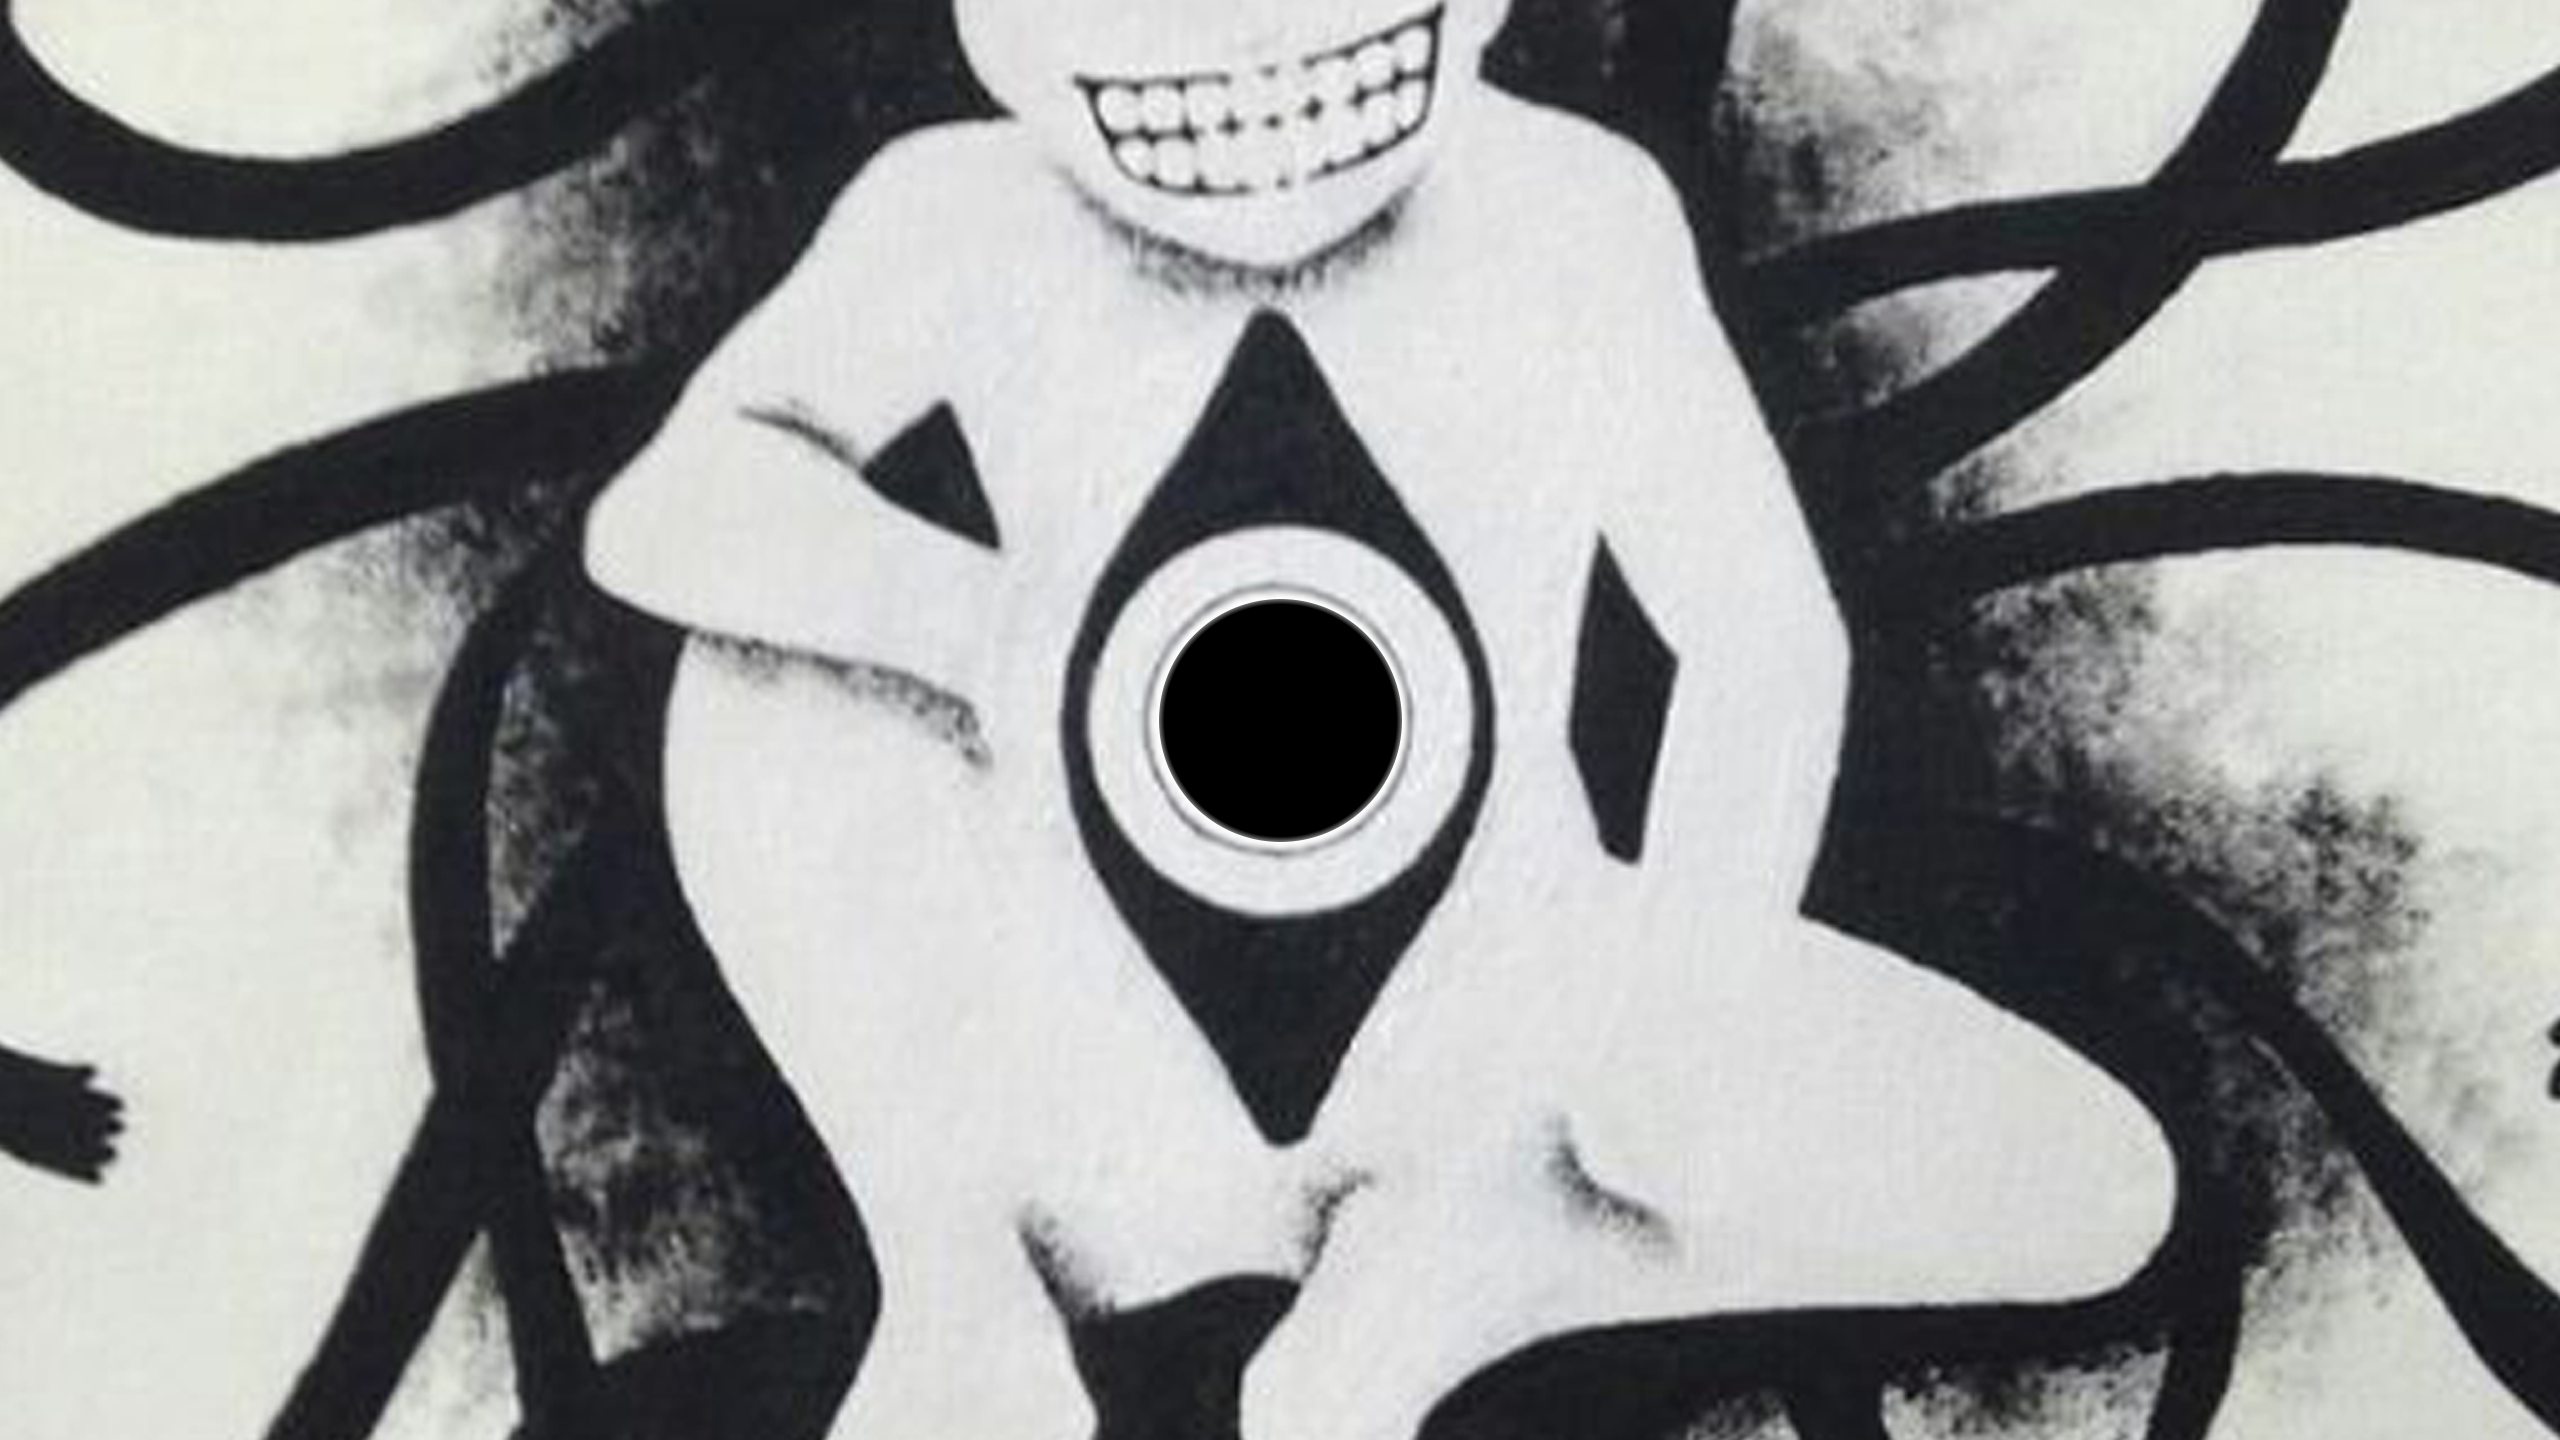
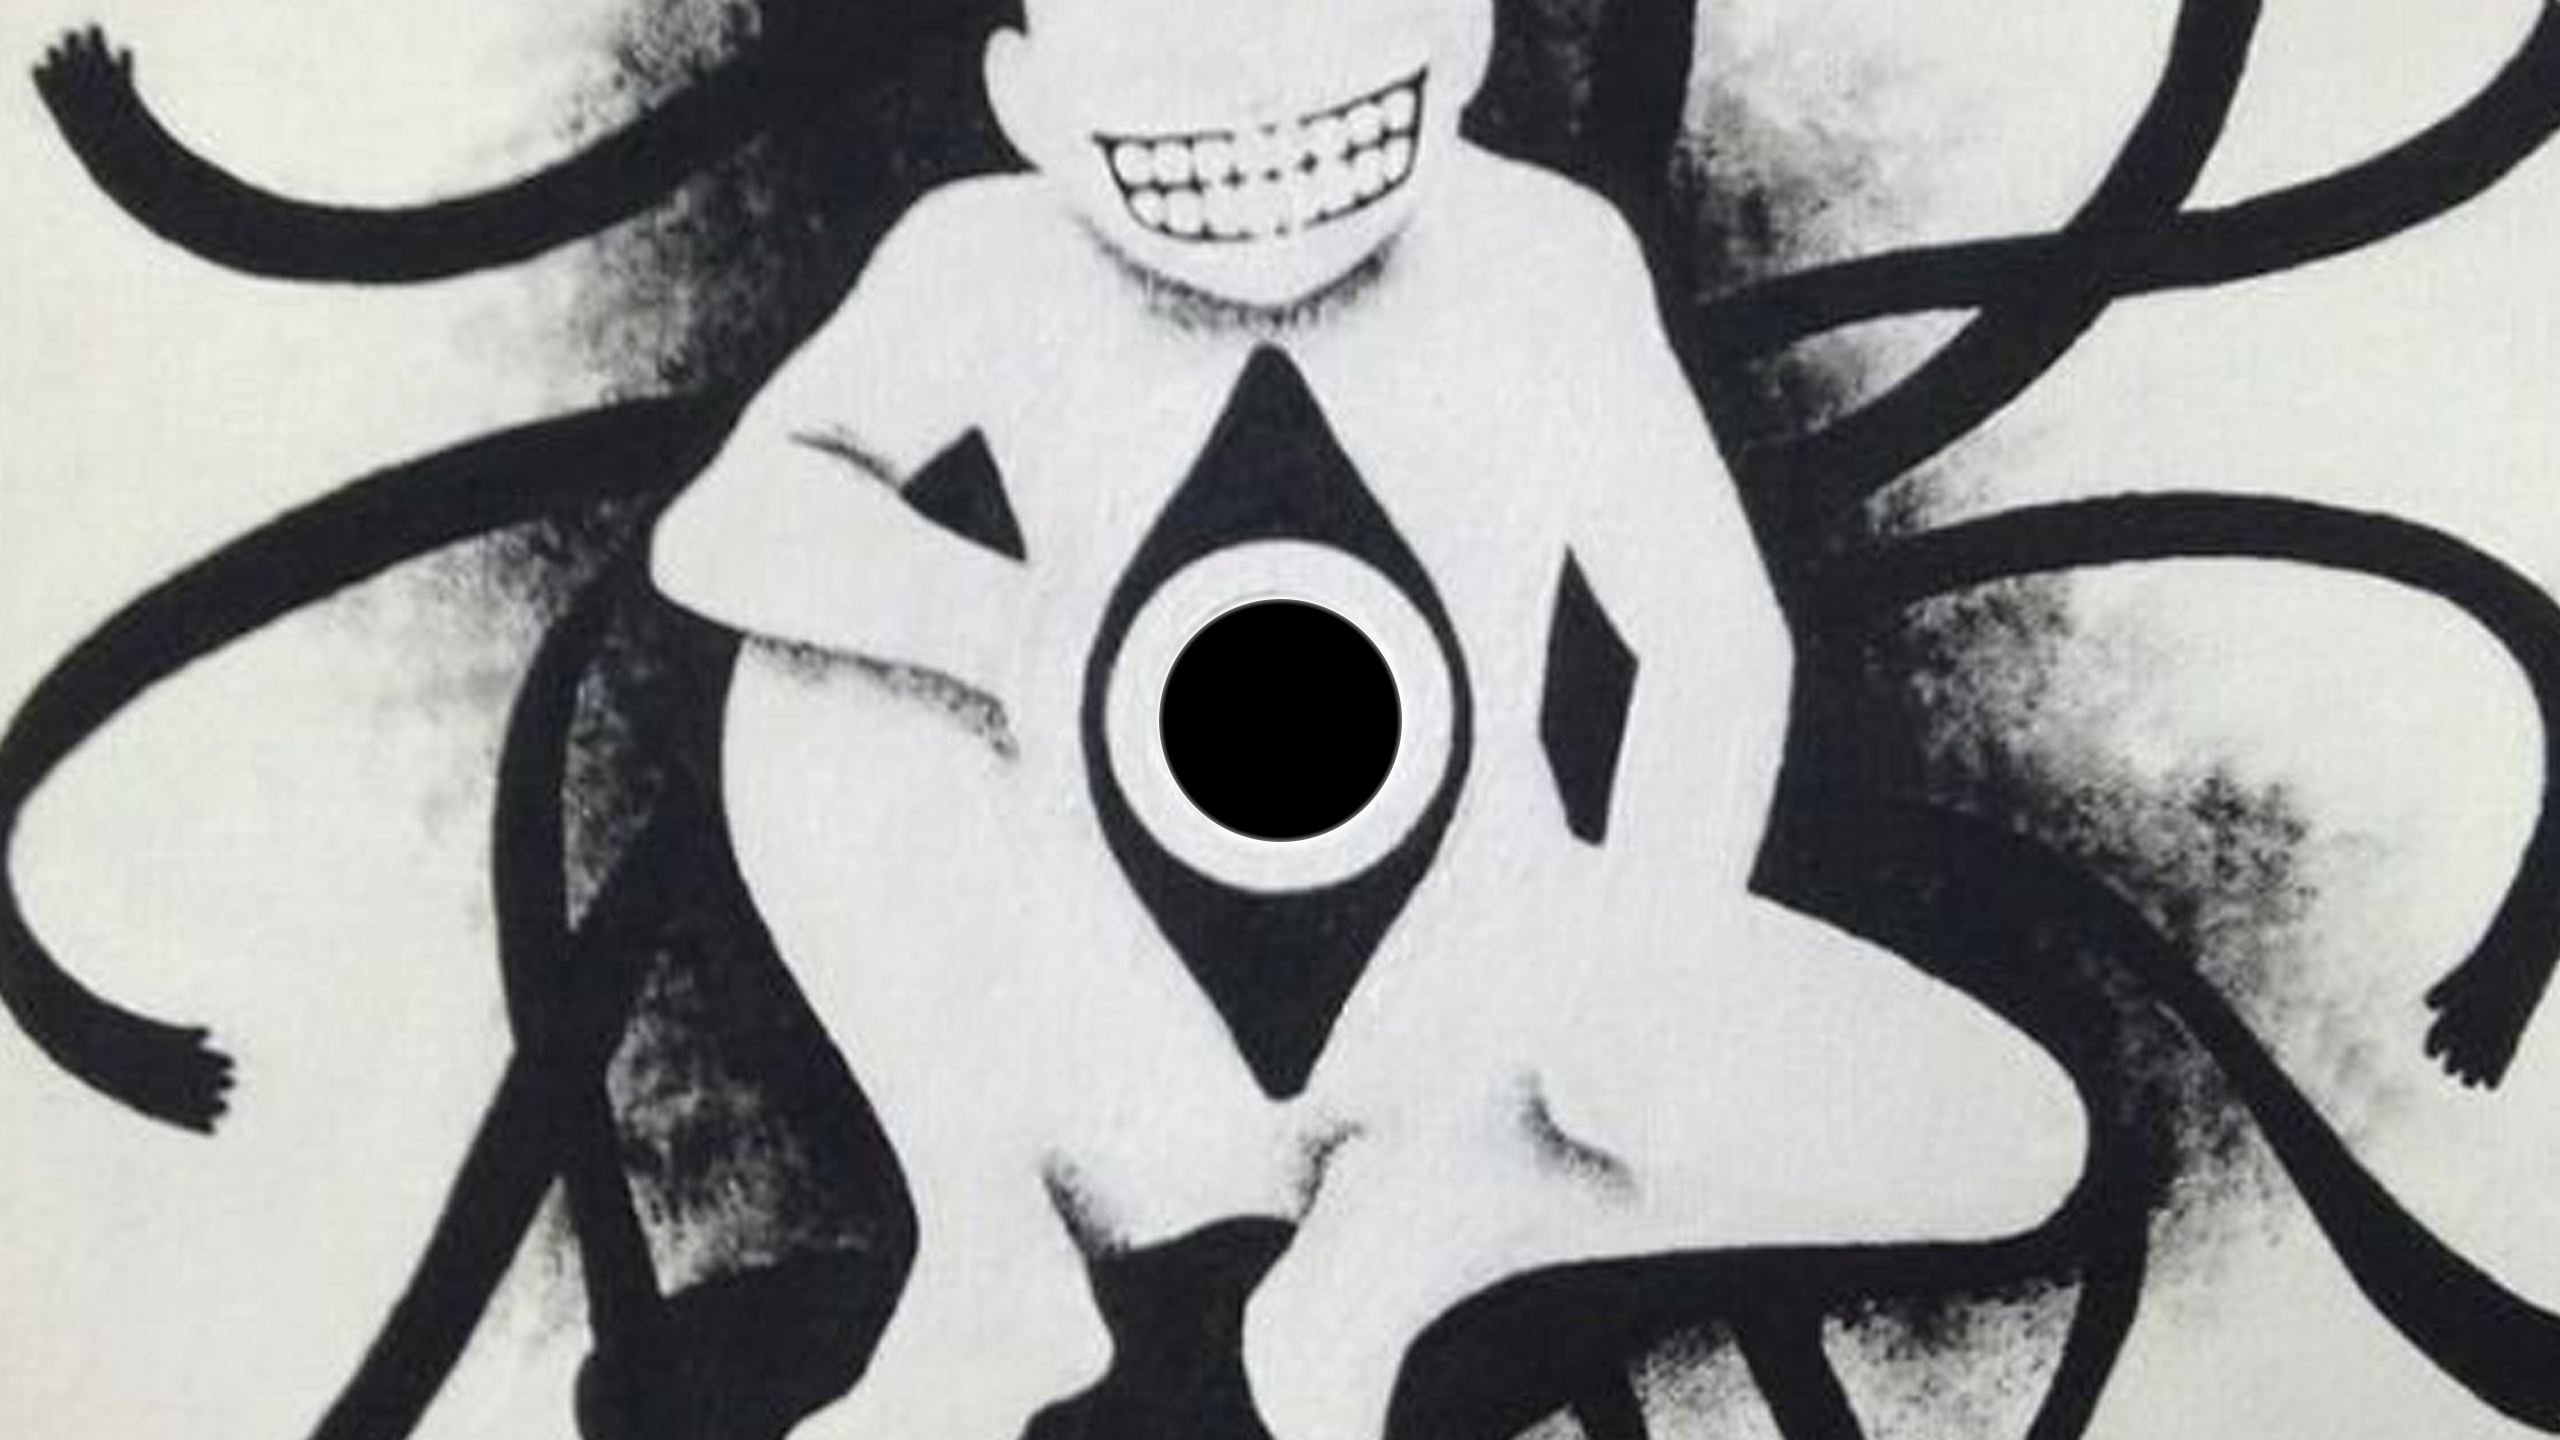
Add files via upload

diff --git a/textes/blackhole/index.html b/textes/blackhole/index.html
@@ -3,7 +3,7 @@
 
 
     <link rel="shortcut icon" href="https://64.media.tumblr.com/edce45fa1bf98132f17f243ac9f7733e/0168a80ceb7d68b5-23/s128x128u_c1/cbfe00c8f9ed5f409ef92ee34517e98bf289c6df.pnj">
-    <title>The Spot - comme une araignée au plafond</title>
+    <title>Holœgramme</title>
 </head>
 <style>
     body{
@@ -11,9 +11,6 @@
         margin: auto;
         padding:auto;
         text-align: center;
-        background-image: url(1.jpg);
-        background-position: center;
-        background-repeat: no-repeat;
         margin:0;
         padding:0;
     }
@@ -29,12 +26,15 @@
         margin:0;
         padding:0;
     }
+    img{
+        
+        margin:0;
+        padding:0;
+    }
 </style>
 <body>
 
     <iframe width="100%" height="166" scrolling="no" frameborder="no" allow="autoplay" src="https://w.soundcloud.com/player/?url=https%3A//api.soundcloud.com/tracks/217033162&color=%23000000&auto_play=true&hide_related=false&show_comments=true&show_user=true&show_reposts=false&show_teaser=true"></iframe><div style="font-size: 10px; color: #cccccc;line-break: anywhere;word-break: normal;overflow: hidden;white-space: nowrap;text-overflow: ellipsis; font-family: Interstate,Lucida Grande,Lucida Sans Unicode,Lucida Sans,Garuda,Verdana,Tahoma,sans-serif;font-weight: 100;"><a href="https://soundcloud.com/3_force" title="3FORCE" target="_blank" style="color: #cccccc; text-decoration: none;">3FORCE</a> · <a href="https://soundcloud.com/3_force/intrusion" title="Intrusion" target="_blank" style="color: #cccccc; text-decoration: none;">Intrusion</a></div>
-   
-   
    
    
    
@@ -46,10 +46,22 @@
    
    
    <div><p id="para" style="color:red"></p></div>
+
+
+
+
+
+<div><img width="50%" id="image" src="0_1p.png" alt="all hole"></div>
+
+
+
+
    
    <script>
 
 const para = document.getElementById("para");
+
+const image = document.getElementById("image");
 
 
 function tourne_et_retourne(){
@@ -57,12 +69,11 @@ function tourne_et_retourne(){
 
 
 
-    let cpt_bis = Math.floor(Math.random() * 28);
+    let cpt_bis = Math.floor(Math.random() * 29);
 
     cpt_bis++;
 
-    document.body.style.backgroundImage = "url('0_"+cpt_bis+"p.png')";
-    document.body.style.backgroundSize="50% 50%";
+    image.src= "0_"+cpt_bis+"p.png";
 
     
 
